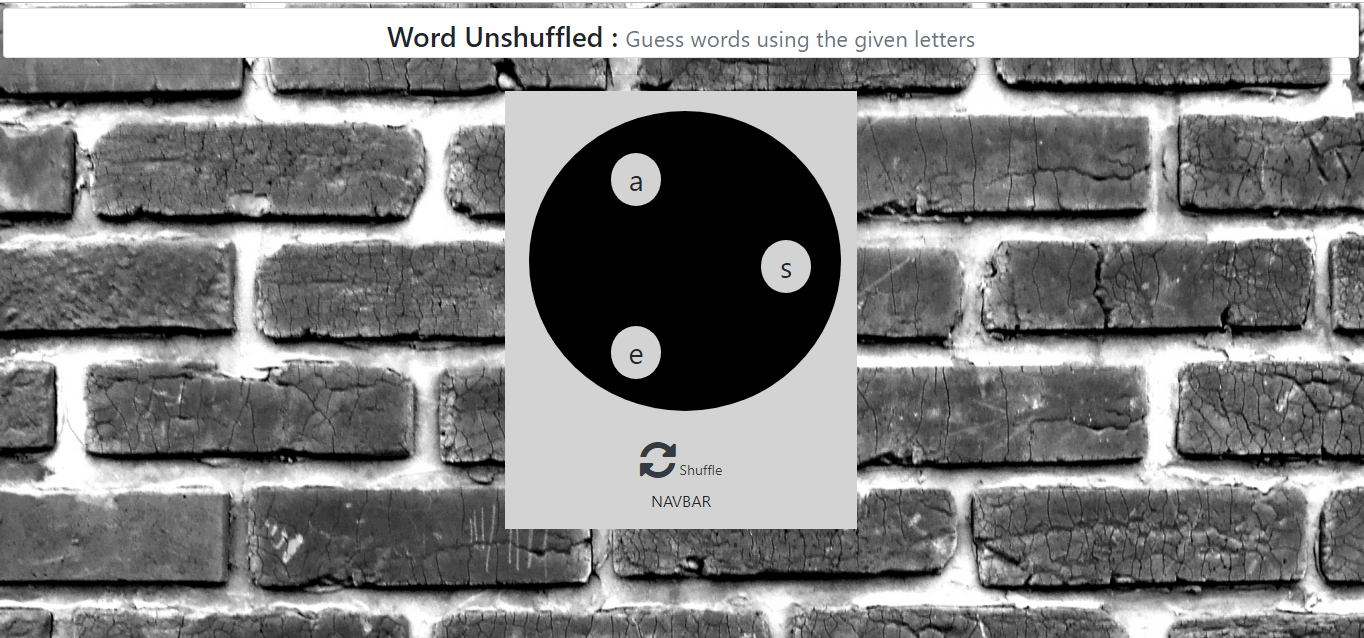
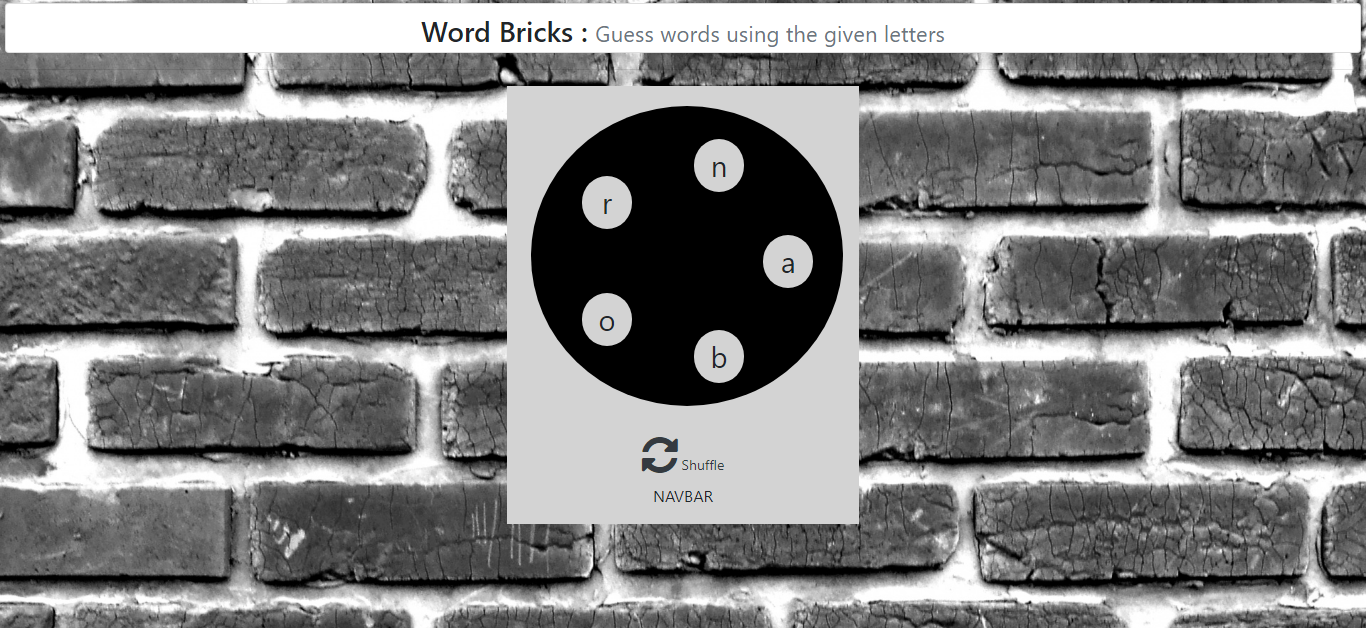
A Few Tweaks

diff --git a/UI/WordGame.html b/UI/WordGame.html
@@ -16,7 +16,7 @@
 <body>
   <div class="card text-center" id="heading">
     <div class="card-body">
-      <h3>Word Unshuffled :
+      <h3>Word Bricks :
         <small class="text-muted">Guess words using the given letters</small></h3>
     </div>
   </div>

diff --git a/UI/dist/WordGame.html b/UI/dist/WordGame.html
@@ -16,7 +16,7 @@
 <body>
   <div class="card text-center" id="heading">
     <div class="card-body">
-      <h3>Word Unshuffled :
+      <h3>Word Bricks :
         <small class="text-muted">Guess words using the given letters</small></h3>
     </div>
   </div>
